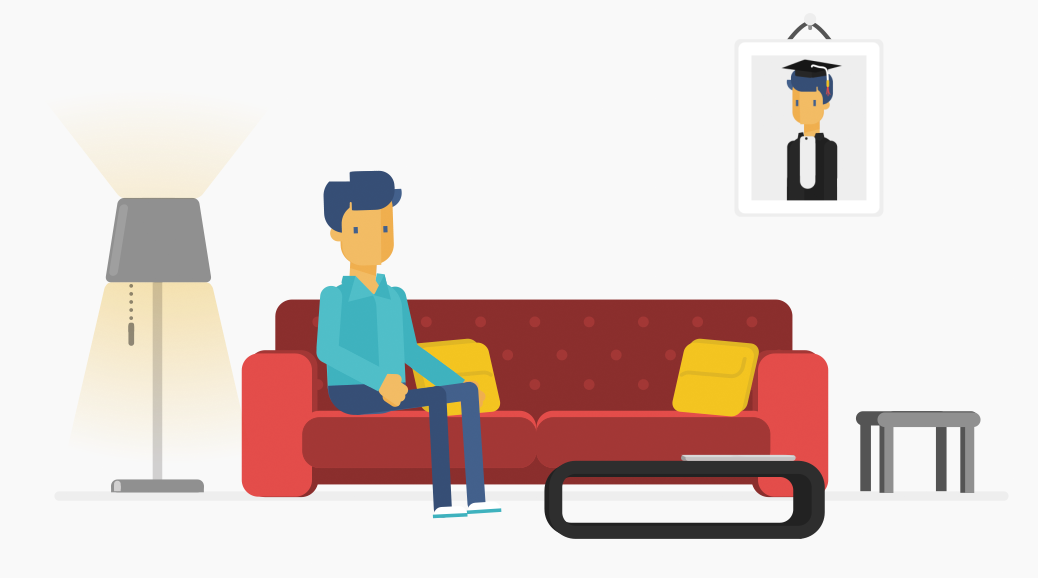
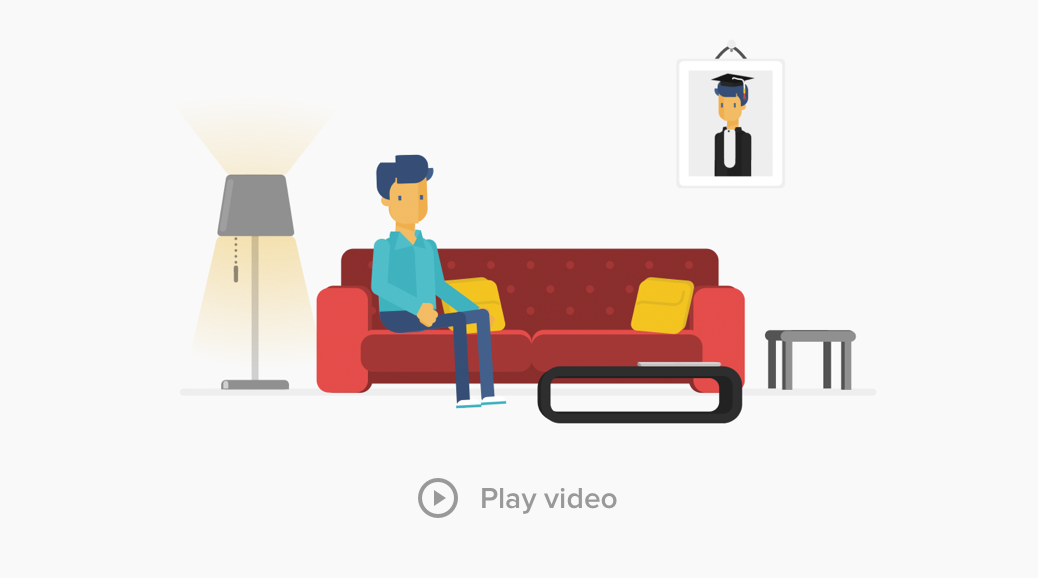
fix(video): fix video image

diff --git a/app/packages/partup:client-pages/swarm/content/content.html b/app/packages/partup:client-pages/swarm/content/content.html
@@ -15,7 +15,7 @@
                 <p>{{_ 'swarm-content-about-paragraph1' }}</p>
             </section>
             {{> Video url='https://www.youtube.com/embed/LNpMI5gpNuQ' poster='/images/closed_network.png'}}
-            {{> Video url='https://www.youtube.com/embed/sGbxmsDFVnE' poster='https://i.ytimg.com/vi_webp/sGbxmsDFVnE/hqdefault.webp'}}
+            {{> Video url='https://www.youtube.com/embed/LNpMI5gpNuQ' poster='/images/closed_network.png'}}
             <section>
                 <h2>{{_ 'swarm-content-about-title2' }}</h2>
                 <p>{{_ 'swarm-content-about-paragraph2' }}</p>
